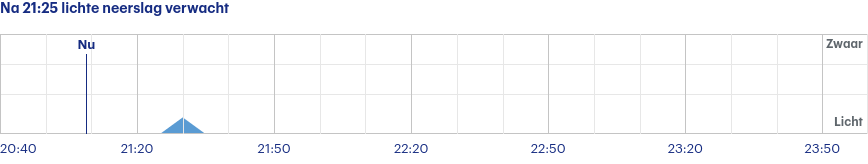
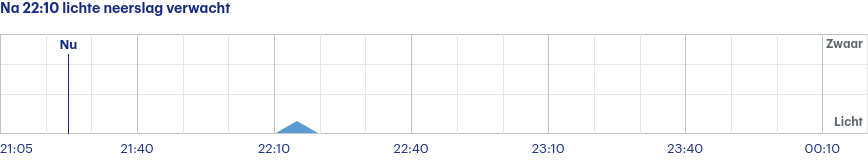
Latest scraping buienradar: Tue Jul 11 19:20:47 UTC 2023

diff --git a/scrapes/buienradar/buienradar-jette-3-uur.md b/scrapes/buienradar/buienradar-jette-3-uur.md
@@ -1,4 +1,4 @@
-Na 21:25 lichte neerslag verwacht
+Na 22:10 lichte neerslag verwacht
 
 ![](buienradar-jette-3-uur.png)
 
